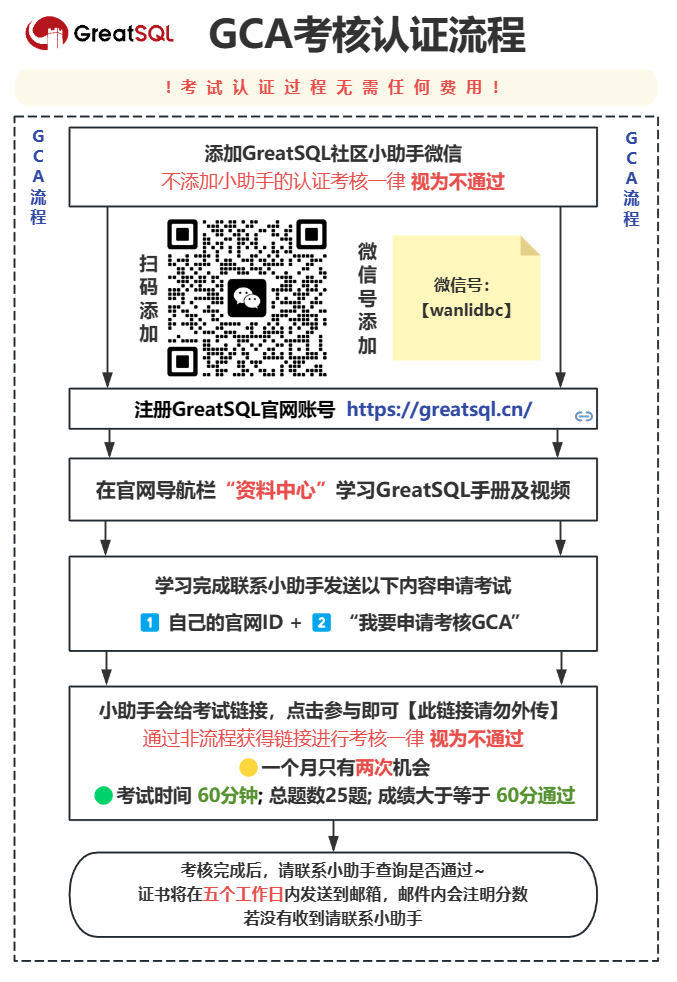
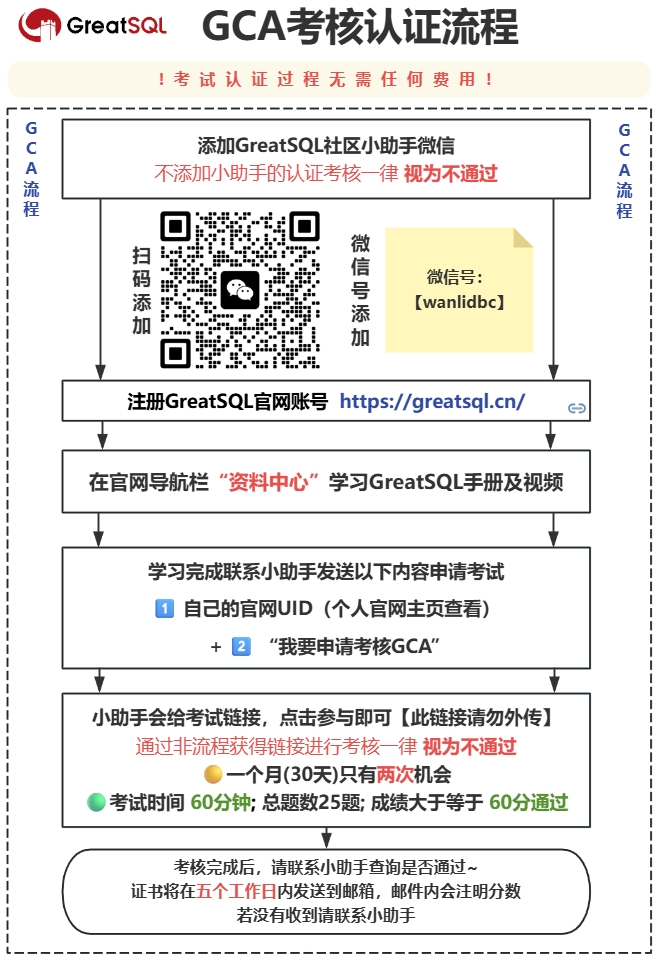
更新：通过GCA\GCP认证人员、考试流程

Changed region(s): [[0.0, 0.0, 0.9985, 0.9979]]

diff --git a/4-greatsql-certified.md b/4-greatsql-certified.md
@@ -41,8 +41,8 @@ GCA 考核难度相对较低，总题数：25题；25题不定项选择题；总
 
 我们衷心希望您能够真正地认识和了解 GreatSQL 这个开源免费数据库，并掌握使用与操作的技能。考证的目的在于检验实际能力，而不应仅为获得证书而来做无意义的重复考试。为此，我们决定对考核次数作出一定调整:
 
-- GCA 等级认证一个月仅限考试两次
-- GCP 等级认证一个月仅限考试一次
+- GCA 等级认证一个月（30天内）仅限考试两次
+- GCP 等级认证一个月（30天内）仅限考试一次
 
 这些限制会因情况而定，目的在于保证考试的公正性和考证的价值。感谢您的理解与支持，让考核回归本质，共同提升数据库技术与应用水平。祝学习进步!
 
@@ -223,8 +223,52 @@ GCA 考核难度相对较低，总题数：25题；25题不定项选择题；总
 | 246  | [黄*远](https://greatsql.cn/home.php?mod=space&uid=2257) | GCA-DBA-2025735887 | 296  | [李*家](https://greatsql.cn/home.php?mod=space&uid=2344) | GCA-DBA-2025344144 |
 | 247  | [陈*](https://greatsql.cn/home.php?mod=space&uid=1927)   | GCA-DBA-2025233727 | 297  | [王*春](https://greatsql.cn/home.php?mod=space&uid=2346) | GCA-DBA-2025810011 |
 | 248  | [梁*敏](https://greatsql.cn/home.php?mod=space&uid=2265) | GCA-DBA-2025263139 | 298  | [王*](https://greatsql.cn/home.php?mod=space&uid=2332)   | GCA-DBA-2025353529 |
-| 249  | [欧*莅](https://greatsql.cn/home.php?mod=space&uid=2264) | GCA-DBA-2025463538 | 299  |                                                          |                    |
-| 250  | [廖*](https://greatsql.cn/home.php?mod=space&uid=2267)   | GCA-DBA-2025798700 | 300  |                                                          |                    |
+| 249  | [欧*莅](https://greatsql.cn/home.php?mod=space&uid=2264) | GCA-DBA-2025463538 | 299  | [奚*茹](https://greatsql.cn/home.php?mod=space&uid=2349) | GCA-DBA-2025474004 |
+| 250  | [廖*](https://greatsql.cn/home.php?mod=space&uid=2267)   | GCA-DBA-2025798700 | 300  | [那*瀚](https://greatsql.cn/home.php?mod=space&uid=2347) | GCA-DBA-2025401914 |
+
+通过GCA等级考核人员名单（301~400）：
+
+| 序号 | 姓名                                                     | 证书编号           | 序号 | 姓名 | 证书编号 |
+| ---- | -------------------------------------------------------- | ------------------ | ---- | ---- | -------- |
+| 301  | [徐*](https://greatsql.cn/home.php?mod=space&uid=2345)   | GCA-DBA-2025701842 |      |      |          |
+| 302  | [邹*](https://greatsql.cn/home.php?mod=space&uid=2547)   | GCA-DBA-2025981438 |      |      |          |
+| 303  | [郑*](https://greatsql.cn/home.php?mod=space&uid=2548)   | GCA-DBA-2026261034 |      |      |          |
+| 304  | [王*昕](https://greatsql.cn/home.php?mod=space&uid=2553) | GCA-DBA-2026540630 |      |      |          |
+| 305  | [毕*](https://greatsql.cn/home.php?mod=space&uid=2555)   | GCA-DBA-2026820226 |      |      |          |
+| 306  | [司*冉](https://greatsql.cn/home.php?mod=space&uid=2557) | GCA-DBA-2027099822 |      |      |          |
+| 307  | [韩*](https://greatsql.cn/home.php?mod=space&uid=2561)   | GCA-DBA-2027379418 |      |      |          |
+| 308  | [毕*](https://greatsql.cn/home.php?mod=space&uid=2558)   | GCA-DBA-2027659014 |      |      |          |
+| 309  | [李*男](https://greatsql.cn/home.php?mod=space&uid=2564) | GCA-DBA-2027938610 |      |      |          |
+| 310  | [周*达](https://greatsql.cn/home.php?mod=space&uid=2565) | GCA-DBA-2028218206 |      |      |          |
+| 311  | [王*](https://greatsql.cn/home.php?mod=space&uid=2576)   | GCA-DBA-2028497802 |      |      |          |
+| 312  | [桑*轩](https://greatsql.cn/home.php?mod=space&uid=2572) | GCA-DBA-2028777398 |      |      |          |
+| 313  | [姜*慧](https://greatsql.cn/home.php?mod=space&uid=2585) | GCA-DBA-2029056994 |      |      |          |
+| 314  | [芦*玺](https://greatsql.cn/home.php?mod=space&uid=2321) | GCA-DBA-2029336590 |      |      |          |
+| 315  | [高*航](https://greatsql.cn/home.php?mod=space&uid=2556) | GCA-DBA-2029616186 |      |      |          |
+| 316  | [吴*平](https://greatsql.cn/home.php?mod=space&uid=2580) | GCA-DBA-2029895782 |      |      |          |
+| 317  | [赵*宇](https://greatsql.cn/home.php?mod=space&uid=2593) | GCA-DBA-2030175378 |      |      |          |
+| 318  | [张*浩](https://greatsql.cn/home.php?mod=space&uid=2589) | GCA-DBA-2030454974 |      |      |          |
+| 319  | [刘*](https://greatsql.cn/home.php?mod=space&uid=2596)   | GCA-DBA-2030734570 |      |      |          |
+| 320  | [何*](https://greatsql.cn/home.php?mod=space&uid=2595)   | GCA-DBA-2031014166 |      |      |          |
+| 321  | [于*泽](https://greatsql.cn/home.php?mod=space&uid=2563) | GCA-DBA-2031293762 |      |      |          |
+| 322  | [李*杰](https://greatsql.cn/home.php?mod=space&uid=2568) | GCA-DBA-2031573358 |      |      |          |
+| 323  | [聂*原](https://greatsql.cn/home.php?mod=space&uid=2588) | GCA-DBA-2031852954 |      |      |          |
+| 324  | [淮*杰](https://greatsql.cn/home.php?mod=space&uid=2594) | GCA-DBA-2032132550 |      |      |          |
+| 325  | [石*](https://greatsql.cn/home.php?mod=space&uid=2587)   | GCA-DBA-2032412146 |      |      |          |
+| 326  | [张*远](https://greatsql.cn/home.php?mod=space&uid=2598) | GCA-DBA-2032691742 |      |      |          |
+| 327  | [王*鹏](https://greatsql.cn/home.php?mod=space&uid=2570) | GCA-DBA-2032971338 |      |      |          |
+| 328  | [林*杰](https://greatsql.cn/home.php?mod=space&uid=2605) | GCA-DBA-2033250934 |      |      |          |
+| 329  | [冯*燊](https://greatsql.cn/home.php?mod=space&uid=2578) | GCA-DBA-2033530530 |      |      |          |
+| 330  | [姜*珺](https://greatsql.cn/home.php?mod=space&uid=2559) | GCA-DBA-2025586030 |      |      |          |
+| 331  | [卢*文](https://greatsql.cn/home.php?mod=space&uid=2603) | GCA-DBA-2025169385 |      |      |          |
+| 332  | [夏*鹏](https://greatsql.cn/home.php?mod=space&uid=2600) | GCA-DBA-2025439776 |      |      |          |
+| 333  | [赵*垒](https://greatsql.cn/home.php?mod=space&uid=2611) | GCA-DBA-2025825965 |      |      |          |
+| 334  | [李*](https://greatsql.cn/home.php?mod=space&uid=2613)   | GCA-DBA-2025479619 |      |      |          |
+| 335  | [韩*扬](https://greatsql.cn/home.php?mod=space&uid=2610) | GCA-DBA-2025899220 |      |      |          |
+| 336  | [王*](https://greatsql.cn/home.php?mod=space&uid=2554)   | GCA-DBA-2025932838 |      |      |          |
+| 337  | [夏*玉](https://greatsql.cn/home.php?mod=space&uid=2566) | GCA-DBA-2025389043 |      |      |          |
+
+
 
 ### 通过GCP等级考核人员名单
 
@@ -313,6 +357,19 @@ GCA 考核难度相对较低，总题数：25题；25题不定项选择题；总
 | 79   | [张*](https://greatsql.cn/home.php?mod=space&uid=2316)   | GCP-DBA-2025793840 |
 | 80   | [李*](https://greatsql.cn/home.php?mod=space&uid=2286)   | GCP-DBA-2025198011 |
 | 81   | [何*新](https://greatsql.cn/home.php?mod=space&uid=2165) | GCP-DBA-2025970347 |
+| 82   | [王*贺](https://greatsql.cn/home.php?mod=space&uid=2147) | GCP-DBA-2025440264 |
+| 83   | [曾*林](https://greatsql.cn/home.php?mod=space&uid=2143) | GCP-DBA-2025136778 |
+| 84   | [祁*东](https://greatsql.cn/home.php?mod=space&uid=2309) | GCP-DBA-2025395133 |
+| 85   | [刘*田](https://greatsql.cn/home.php?mod=space&uid=2308) | GCP-DBA-2025602508 |
+| 86   | [邱*明](https://greatsql.cn/home.php?mod=space&uid=2306) | GCP-DBA-2025100479 |
+| 87   | [李*威](https://greatsql.cn/home.php?mod=space&uid=2320) | GCP-DBA-2025212373 |
+| 88   | [林*旋](https://greatsql.cn/home.php?mod=space&uid=2311) | GCP-DBA-2025217502 |
+| 89   | [桑*轩](https://greatsql.cn/home.php?mod=space&uid=2572) | GCP-DBA-2025741848 |
+| 90   | [郑*](https://greatsql.cn/home.php?mod=space&uid=2548)   | GCP-DBA-2025611265 |
+| 91   | [李*](https://greatsql.cn/home.php?mod=space&uid=2202)   | GCP-DBA-2025546847 |
+| 92   | [刘*](https://greatsql.cn/home.php?mod=space&uid=2596)   | GCP-DBA-2025142423 |
+| 93   | [徐*慧](https://greatsql.cn/home.php?mod=space&uid=2333) | GCP-DBA-2025353121 |
+| 94   | [司*冉](https://greatsql.cn/home.php?mod=space&uid=2557) | GCP-DBA-2025180311 |
 
 **扫码关注微信公众号**
 
